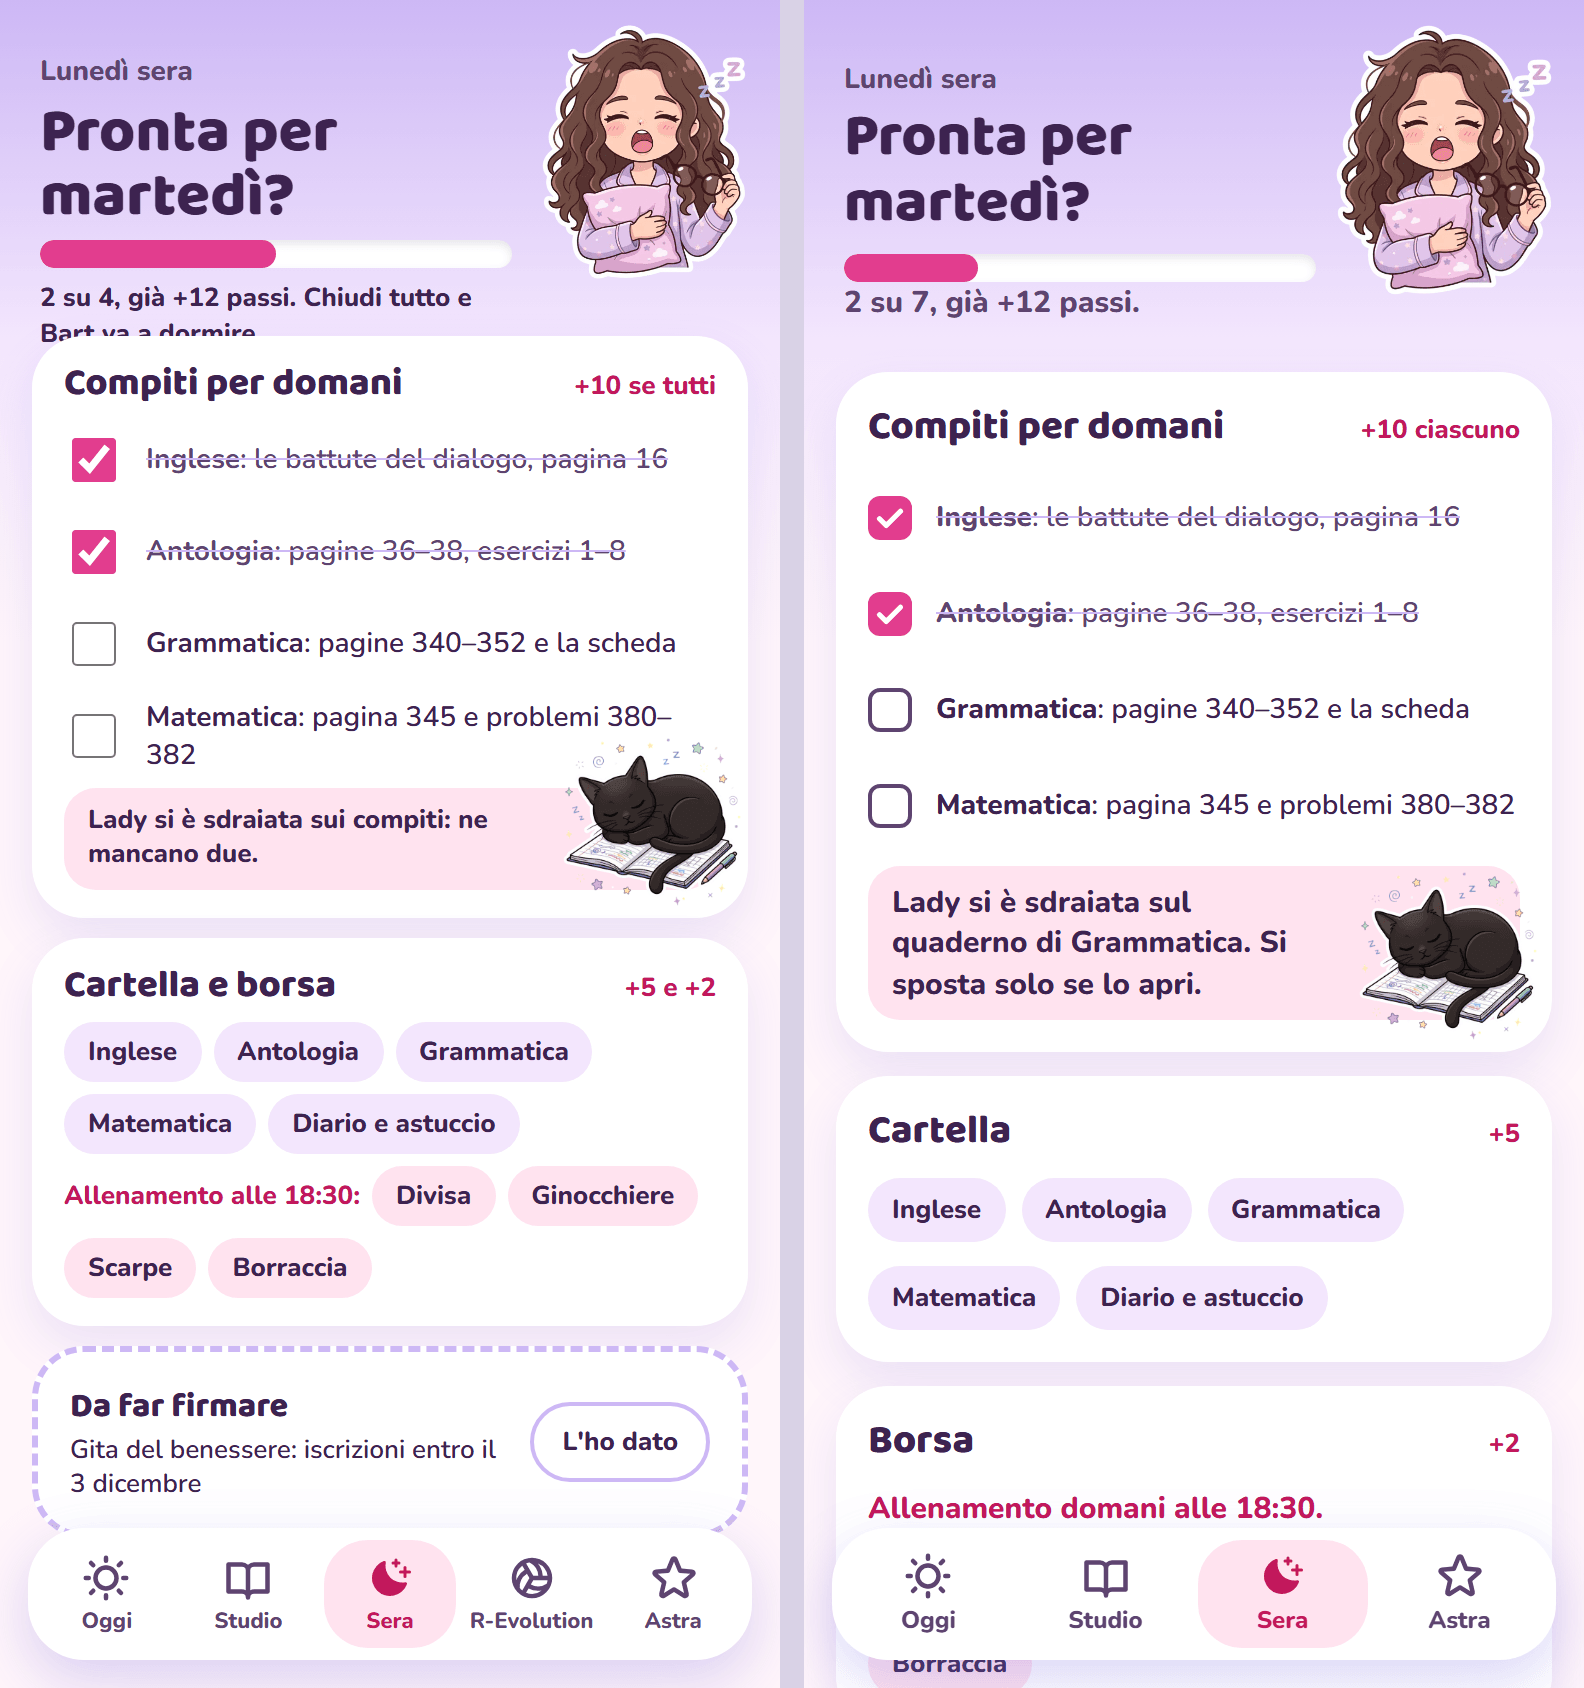
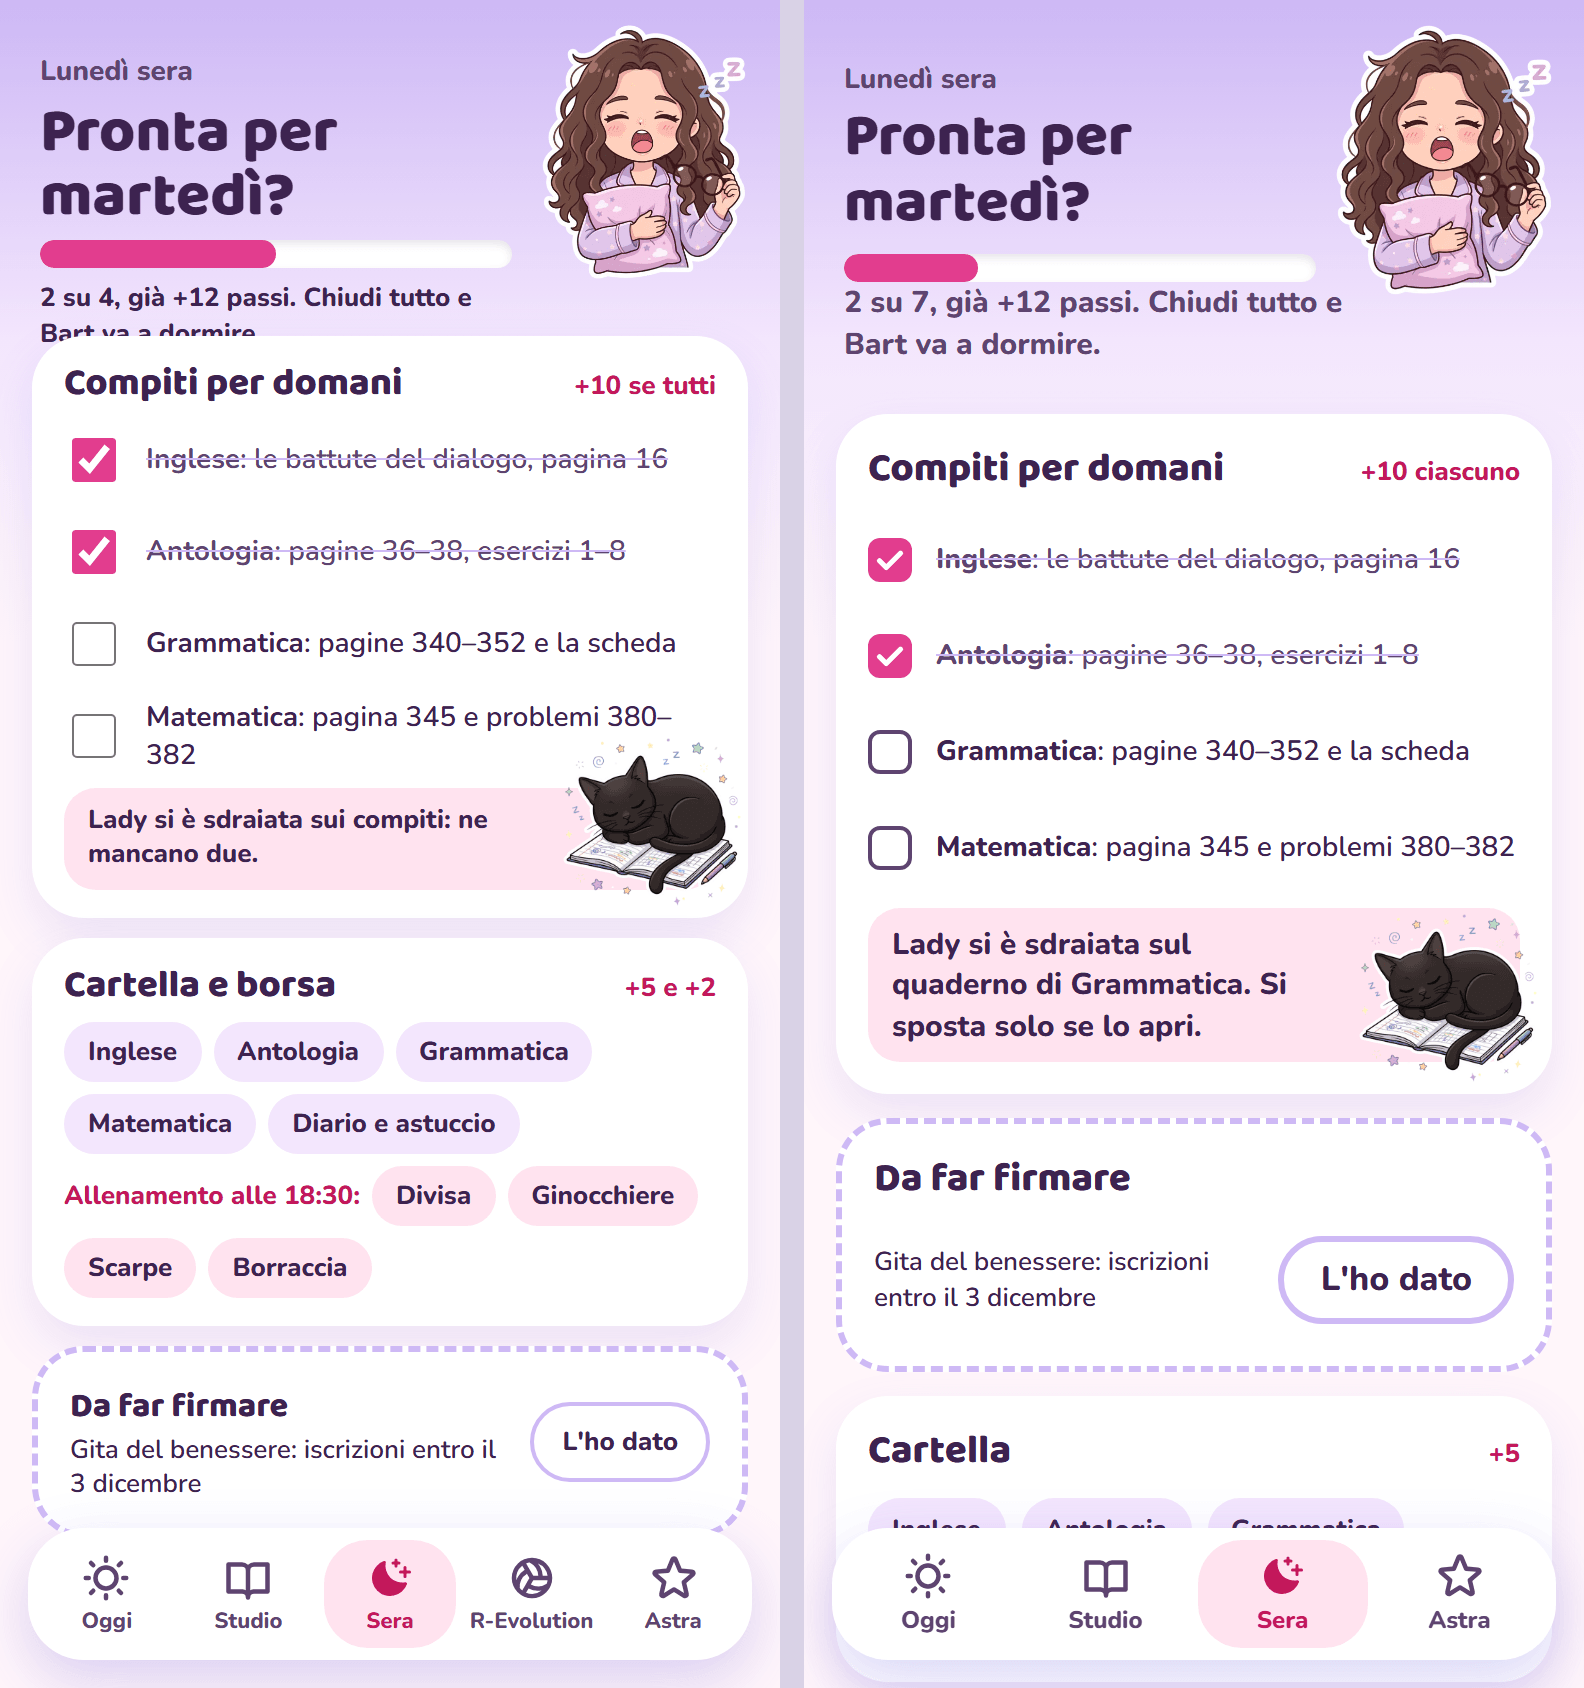
Revisione UI 4 (Sera): firma in alto, traguardo della sera
- 'Da far firmare' subito dopo i compiti: prima finiva sotto la barra
- conto: '2 su 7, già +12 passi. Chiudi tutto e Bart va a dormire.'
  (la seconda frase finché manca qualcosa)
- 'L'ho dato' su una riga

diff --git a/src/Sera.tsx b/src/Sera.tsx
@@ -178,7 +178,7 @@ export default function Sera() {
               </div>
               <p className="conto">
                 {fatte} su {cose}
-                {passiOggi > 0 && `, già +${passiOggi} passi`}.
+                {passiOggi > 0 && `, già +${passiOggi} passi`}.{fatte < cose && ' Chiudi tutto e Bart va a dormire.'}
               </p>
             </>
           )
@@ -220,35 +220,6 @@ export default function Sera() {
       </div>
       )}
 
-      {conCartella && (
-        <Voci
-          titolo="Cartella"
-          valore={R.CONFIG.passi.obbligatori.cartella}
-          voci={orario.length ? orario : [`Cartella pronta per ${GIORNI[domani.getDay()]}`]}
-          pronta={serata.cartella}
-          quandoPronta={() => chiudiSerata('cartella')}
-          colore="lilla"
-          onAnnulla={attesa.inAttesa('cartella') ? () => attesa.annulla('cartella', () => setSerata((s) => ({ ...s, cartella: false }))) : undefined}
-        />
-      )}
-
-      {sport && (
-        <Voci
-          titolo="Borsa"
-          valore={R.CONFIG.passi.obbligatori.borsa}
-          voci={VOCI_BORSA}
-          pronta={serata.borsa}
-          quandoPronta={() => chiudiSerata('borsa')}
-          colore="rosa"
-          onAnnulla={attesa.inAttesa('borsa') ? () => attesa.annulla('borsa', () => setSerata((s) => ({ ...s, borsa: false }))) : undefined}
-        >
-          <p className="nota accento">
-            {C.tipoImpegno(sport.titolo) === 'partita' ? 'Partita' : 'Allenamento'} domani alle {C.oraRoma(sport.inizio)}
-            {R.giornoDiScuola(domaniCal) && C.oraRoma(sport.inizio) < PRIMA_DI_USCIRE_DA_SCUOLA ? ': la porti a scuola.' : '.'}
-          </p>
-        </Voci>
-      )}
-
       {fogliVisti.length > 0 && (
         <div className="carta tratteggiata">
           <h2>Da far firmare</h2>
@@ -282,6 +253,35 @@ export default function Sera() {
             ))}
           </ul>
         </div>
+      )}
+
+      {conCartella && (
+        <Voci
+          titolo="Cartella"
+          valore={R.CONFIG.passi.obbligatori.cartella}
+          voci={orario.length ? orario : [`Cartella pronta per ${GIORNI[domani.getDay()]}`]}
+          pronta={serata.cartella}
+          quandoPronta={() => chiudiSerata('cartella')}
+          colore="lilla"
+          onAnnulla={attesa.inAttesa('cartella') ? () => attesa.annulla('cartella', () => setSerata((s) => ({ ...s, cartella: false }))) : undefined}
+        />
+      )}
+
+      {sport && (
+        <Voci
+          titolo="Borsa"
+          valore={R.CONFIG.passi.obbligatori.borsa}
+          voci={VOCI_BORSA}
+          pronta={serata.borsa}
+          quandoPronta={() => chiudiSerata('borsa')}
+          colore="rosa"
+          onAnnulla={attesa.inAttesa('borsa') ? () => attesa.annulla('borsa', () => setSerata((s) => ({ ...s, borsa: false }))) : undefined}
+        >
+          <p className="nota accento">
+            {C.tipoImpegno(sport.titolo) === 'partita' ? 'Partita' : 'Allenamento'} domani alle {C.oraRoma(sport.inizio)}
+            {R.giornoDiScuola(domaniCal) && C.oraRoma(sport.inizio) < PRIMA_DI_USCIRE_DA_SCUOLA ? ': la porti a scuola.' : '.'}
+          </p>
+        </Voci>
       )}
 
       {famiglia && (

diff --git a/src/stile.css b/src/stile.css
@@ -465,3 +465,6 @@ dialog.velo:focus { outline: none; }
 
 /* revisione UI, regola 2: il testo fuori dalle carte parte a 20 px (16 di main + 4) */
 .sera > h1, .album-pagina > h1, .album-pagina > h2, .sera > .sopratitolo, .sera > p { padding-left: 4px; }
+
+/* Sera: "L'ho dato" su una riga */
+.foglio .secondario.compatto { flex: none; white-space: nowrap; margin-top: 0; align-self: center; }
